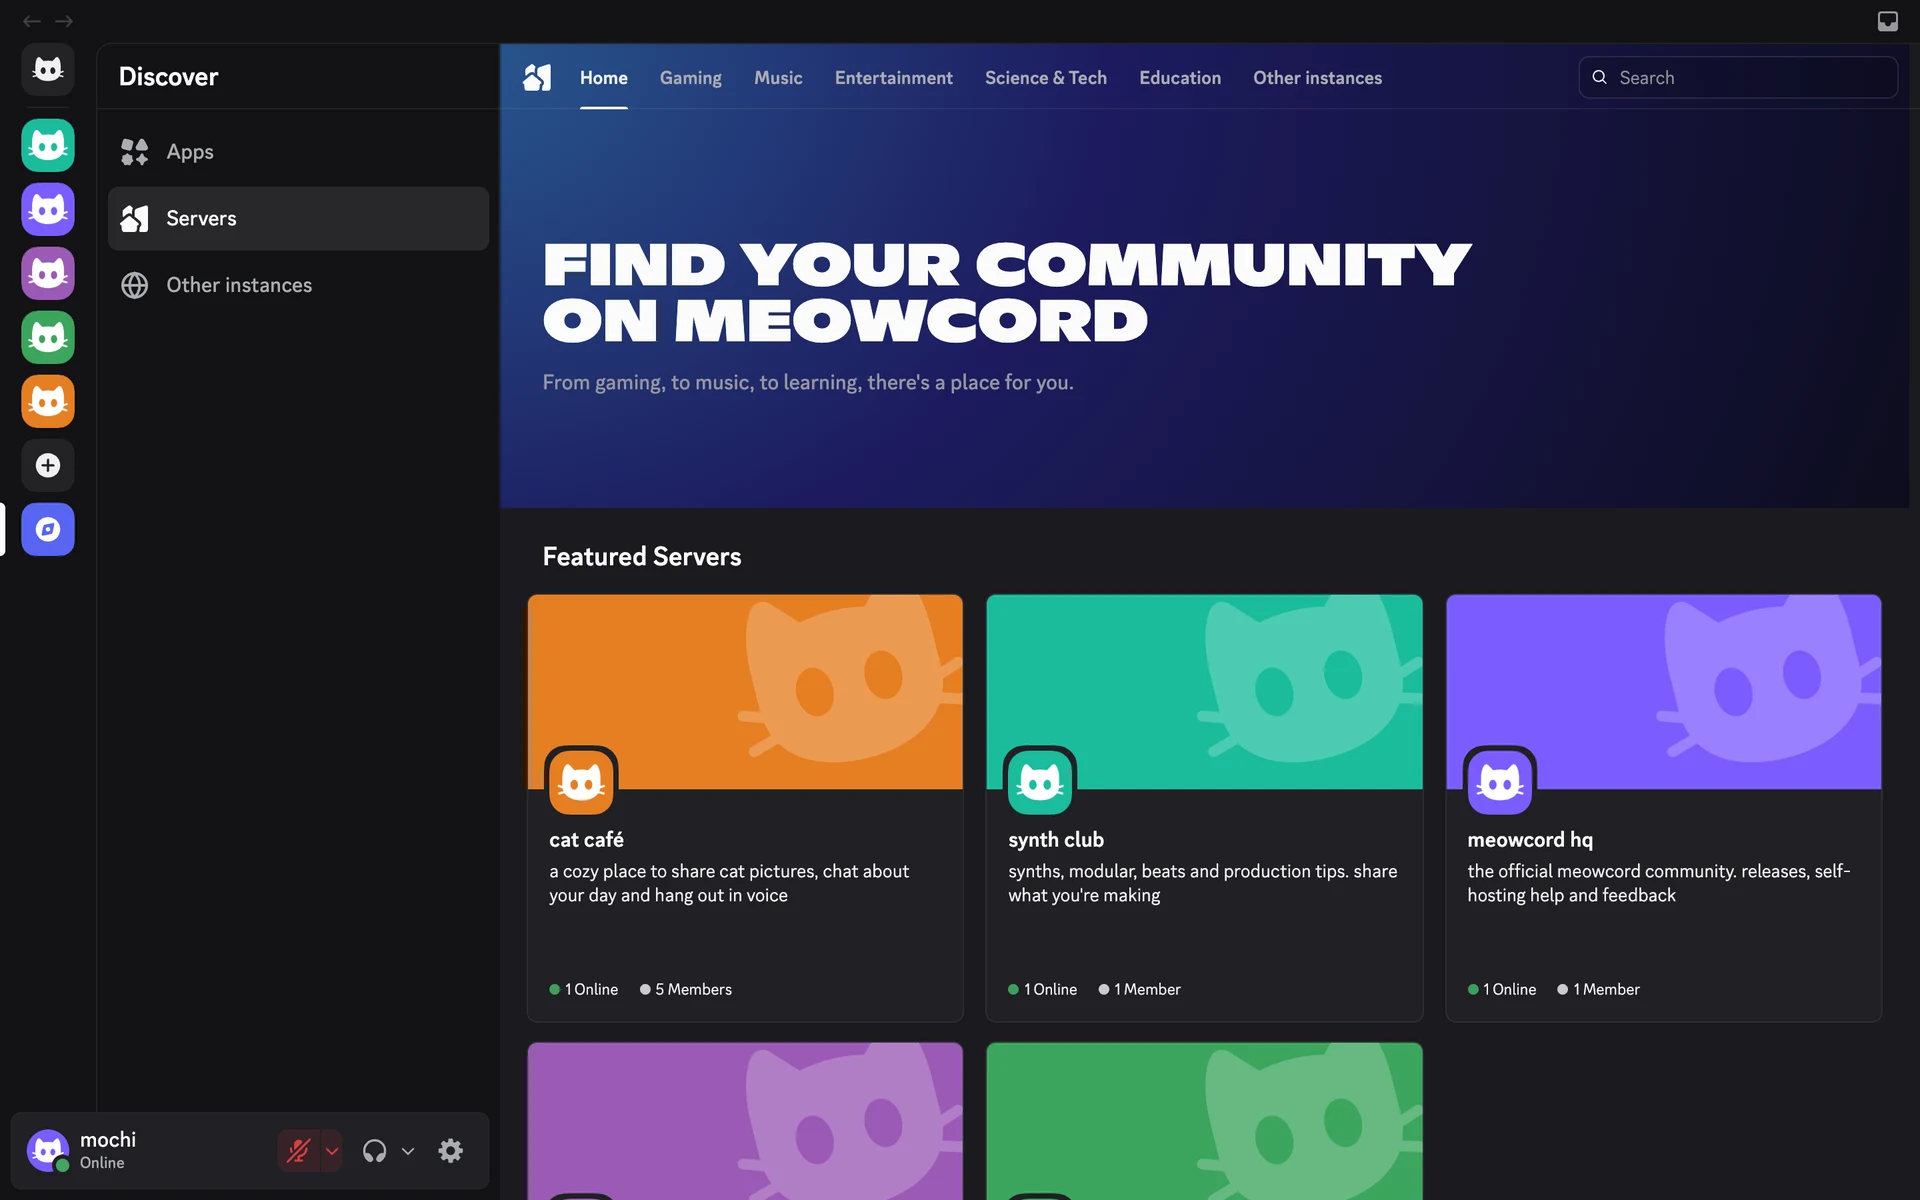
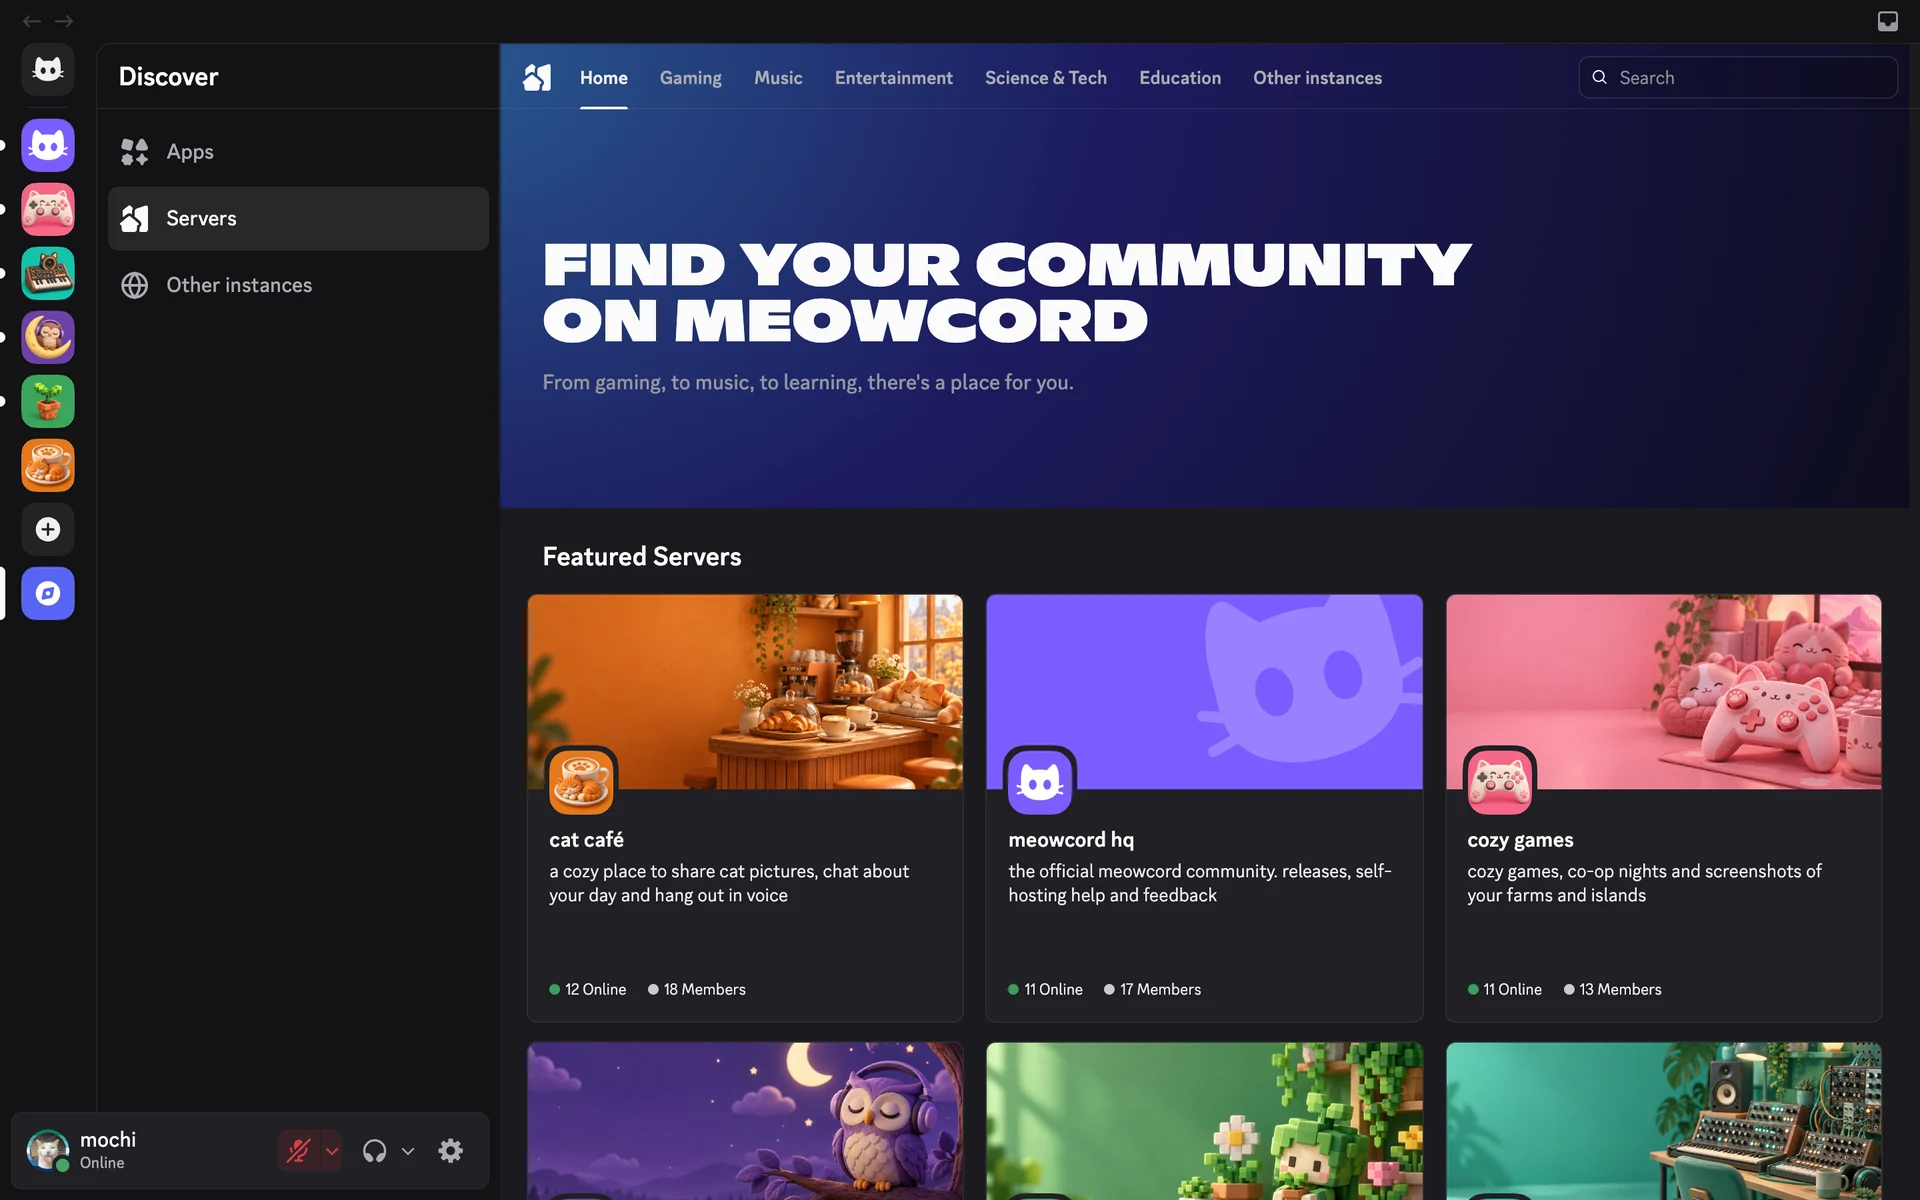
docs: add a layered blender render and refresh the readme screenshots

diff --git a/scripts/readme/layers.py b/scripts/readme/layers.py
@@ -1,0 +1,171 @@
+# SPDX-License-Identifier: AGPL-3.0-only
+import json
+import math
+import sys
+from pathlib import Path
+
+import bpy
+from mathutils import Matrix, Vector
+
+args = sys.argv[sys.argv.index("--") + 1 :]
+root, out, width, samples = Path(args[0]), args[1], int(args[2]), int(args[3])
+bpy.ops.wm.read_factory_settings(use_empty=True)
+rects = json.loads((root / "rects.json").read_text())
+screenshot = bpy.data.images.load(str(root / "chat3x.png"))
+base_image = bpy.data.images.load(str(root / "chat3x-base.png"))
+view_w, view_h = screenshot.size[0] / 3, screenshot.size[1] / 3
+scale = 7.2 / view_w
+panel_w, panel_h = view_w * scale, view_h * scale
+popped_rows = [5, 6, 9, 10, 11, 12, 13]
+
+scene = bpy.context.scene
+
+
+def linear(value):
+    value = value.lstrip("#")
+    srgb = [int(value[i : i + 2], 16) / 255 for i in (0, 2, 4)]
+    return tuple((c / 12.92 if c <= 0.04045 else ((c + 0.055) / 1.055) ** 2.4) for c in srgb) + (1,)
+
+
+def glass(name, color, roughness=0.16):
+    mat = bpy.data.materials.new(name)
+    mat.use_nodes = True
+    bsdf = mat.node_tree.nodes["Principled BSDF"]
+    bsdf.inputs["Base Color"].default_value = linear(color)
+    bsdf.inputs["Roughness"].default_value = roughness
+    bsdf.inputs["Coat Weight"].default_value = 1.0 if roughness < 0.3 else 0.35
+    bsdf.inputs["Coat Roughness"].default_value = 0.05 if roughness < 0.3 else 0.3
+    bsdf.inputs["Specular IOR Level"].default_value = 0.6
+    return mat
+
+
+def screen_material(name, image, emission):
+    mat = bpy.data.materials.new(name)
+    mat.use_nodes = True
+    nodes = mat.node_tree.nodes
+    bsdf = nodes["Principled BSDF"]
+    tex = nodes.new("ShaderNodeTexImage")
+    tex.image = image
+    tex.interpolation = "Cubic"
+    mat.node_tree.links.new(tex.outputs["Color"], bsdf.inputs["Base Color"])
+    mat.node_tree.links.new(tex.outputs["Color"], bsdf.inputs["Emission Color"])
+    bsdf.inputs["Emission Strength"].default_value = emission
+    bsdf.inputs["Roughness"].default_value = 0.55
+    bsdf.inputs["Specular IOR Level"].default_value = 0.15
+    return mat
+
+
+def slab(name, size_x, size_y, thickness, bevel, mat, parent=None):
+    bpy.ops.mesh.primitive_cube_add(size=1)
+    obj = bpy.context.object
+    obj.name = name
+    obj.scale = (size_x, size_y, thickness)
+    bpy.ops.object.transform_apply(scale=True)
+    modifier = obj.modifiers.new("bevel", "BEVEL")
+    modifier.width = bevel
+    modifier.segments = 8
+    modifier.limit_method = "ANGLE"
+    obj.data.materials.append(mat)
+    bpy.ops.object.shade_smooth()
+    if parent:
+        obj.parent = parent
+    return obj
+
+
+def face(name, size_x, size_y, mat, z, parent):
+    bpy.ops.mesh.primitive_plane_add(size=1)
+    obj = bpy.context.object
+    obj.name = name
+    obj.scale = (size_x, size_y, 1)
+    bpy.ops.object.transform_apply(scale=True)
+    obj.location.z = z
+    obj.data.materials.append(mat)
+    obj.parent = parent
+    return obj
+
+
+rig = bpy.data.objects.new("rig", None)
+scene.collection.objects.link(rig)
+
+body = glass("panel", "#121214", 0.2)
+slab("panel", panel_w + 0.18, panel_h + 0.18, 0.12, 0.06, body, rig)
+face("panel-face", panel_w, panel_h, screen_material("panel-screen", base_image, 0.6), 0.0605, rig)
+
+row_body = glass("row", "#1a1a1e", 0.18)
+popped = [rects["rows"][i] for i in popped_rows]
+for k, (x, y, w, h) in enumerate(popped):
+    index = popped_rows[k]
+    image = bpy.data.images.load(str(root / "rows" / f"row_{index:02d}.png"))
+    holder = bpy.data.objects.new(f"row-{index}", None)
+    scene.collection.objects.link(holder)
+    holder.parent = rig
+    pad = 0.05
+    cx = (x + w / 2) * scale - panel_w / 2
+    cy = panel_h / 2 - (y + h / 2) * scale
+    lift = 0.3 + 0.11 * (len(popped) - 1 - k)
+    holder.location = (cx - 0.03 * (len(popped) - 1 - k), cy, 0.06 + lift)
+    slab(f"row-body-{index}", w * scale + pad * 2, h * scale + pad * 2, 0.07, 0.03, row_body, holder)
+    face(f"row-face-{index}", w * scale, h * scale, screen_material(f"row-screen-{index}", image, 1.3), 0.0355, holder)
+
+tile = glass("tile", "#0b0b0d", 0.38)
+for i, (x, y, z, rz) in enumerate([(-8.4, 0.6, -0.25, 0), (-1.0, 9.2, -0.25, 0), (-9.6, 9.6, -0.25, 0), (8.8, 7.6, -0.25, 0), (8.6, -3.6, -0.25, 0), (-0.4, -10.6, -0.25, 0)]):
+    obj = slab(f"tile-{i}", 7.6, 7.4, 0.14, 0.07, tile)
+    obj.location = (x, y, z)
+    obj.rotation_euler.z = math.radians(rz)
+    obj.parent = rig
+
+rig.rotation_euler = (0, 0, math.radians(-30))
+
+world = bpy.data.worlds.new("world")
+scene.world = world
+world.use_nodes = True
+world.node_tree.nodes["Background"].inputs["Color"].default_value = linear("#050507")
+world.node_tree.nodes["Background"].inputs["Strength"].default_value = 1.0
+
+
+def light(name, location, target, power, size_x, size_y, color):
+    data = bpy.data.lights.new(name, "AREA")
+    data.energy = power
+    data.shape = "RECTANGLE"
+    data.size = size_x
+    data.size_y = size_y
+    data.color = linear(color)[:3]
+    obj = bpy.data.objects.new(name, data)
+    scene.collection.objects.link(obj)
+    obj.visible_camera = False
+    obj.location = location
+    obj.rotation_euler = (Vector(target) - Vector(location)).to_track_quat("-Z", "Y").to_euler()
+
+
+light("strip", (-9, 3, 1.2), (0, 0, 0.3), 700, 18, 0.5, "#ffffff")
+light("rim", (8, 6, 1.0), (0, 0, 0.3), 380, 14, 0.5, "#b9a9ff")
+light("fill", (-6, -9, 5), (0, 0, 0), 60, 8, 8, "#ffffff")
+light("accent", (0, -2, -2.5), (0, 0, 0), 80, 6, 6, "#7b5cff")
+
+camera = bpy.data.objects.new("camera", bpy.data.cameras.new("camera"))
+scene.collection.objects.link(camera)
+scene.camera = camera
+target = Vector((0.1, -1.1, 0.6))
+camera.location = (-2.6, -8.9, 4.9)
+camera.rotation_euler = (target - camera.location).to_track_quat("-Z", "Y").to_euler()
+camera.data.lens = 42
+camera.data.dof.use_dof = True
+camera.data.dof.focus_distance = (target - camera.location).length
+camera.data.dof.aperture_fstop = 2.4
+
+scene.render.engine = "CYCLES"
+prefs = bpy.context.preferences.addons["cycles"].preferences
+prefs.compute_device_type = "METAL"
+prefs.get_devices()
+for device in prefs.devices:
+    device.use = True
+scene.cycles.device = "GPU"
+scene.cycles.samples = samples
+scene.cycles.use_denoising = True
+scene.render.resolution_x = width
+scene.render.resolution_y = round(width * 9 / 16)
+scene.view_settings.view_transform = "AgX"
+scene.view_settings.look = "AgX - Medium High Contrast"
+scene.render.image_settings.file_format = "PNG"
+scene.render.filepath = out
+bpy.ops.render.render(write_still=True)

diff --git a/README.md b/README.md
@@ -18,6 +18,10 @@ you can also join servers, group chats, and add friends from other instances, as
 
 **meowcord is currently in very early alpha.** right now, it's a big mess and not recommended for production use or anything other than testing. during this alpha, we'll also have an extremely permissive ai contribution policy, so that we can get as many people as possible to test it and contribute to it. else, we'd never get anywhere near discord feature parity.
 
+<p align="center">
+  <img src="docs/images/layers.webp" alt="a meowcord chat channel in 3D, with each message lifted off the window on its own glass layer" />
+</p>
+
 ## join meowcord!!
 
 since meowcord is federated, no matter what instance you pick, you'll always be able to talk to anybody else, even on other instances :3
